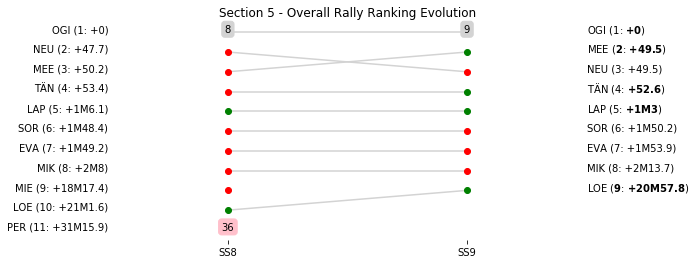
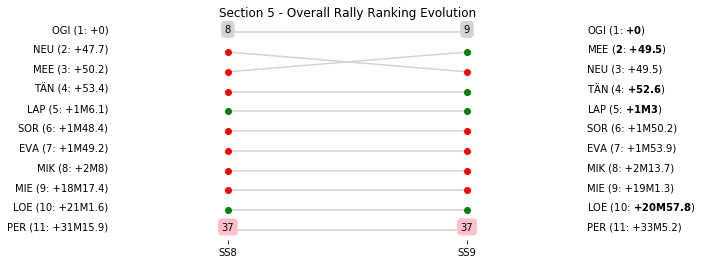
Refresh everything and do final section report

diff --git a/Section 5_report.md b/Section 5_report.md
@@ -35,10 +35,10 @@ Stage Result - SS8
 |EVA   |M-SPORT FORD WORLD RALLY TEAM|00:21:59.2000000|       7|         7|00:00:14.5000000|00:00:03.2000000|
 |SOR   |HYUNDAI SHELL MOBIS WRT      |00:22:03        |       8|         8|00:00:18.3000000|00:00:03.8000000|
 |MIK   |HYUNDAI SHELL MOBIS WRT      |00:22:06.6000000|       9|         9|00:00:21.9000000|00:00:03.6000000|
-|MIE   |MAURO MIELE                  |00:24:23.2000000|      19|        10|00:02:38.5000000|00:00:09.1000000|
-|PER   |ARMANDO PEREIRA              |00:27:03.9000000|      50|        11|00:05:19.2000000|00:00:00.6000000|
-|BOU   |M-SPORT FORD WORLD RALLY TEAM|00:28:44.7000000|      63|        12|00:07:00        |00:00:02        |
-|LAT   |TOYOTA GAZOO RACING WRT      |00:28:44.7000000|      64|        13|00:07:00        |00:00:00        |
+|MIE   |MAURO MIELE                  |00:24:23.2000000|      20|        10|00:02:38.5000000|00:00:09.1000000|
+|PER   |ARMANDO PEREIRA              |00:27:03.9000000|      51|        11|00:05:19.2000000|00:00:00.6000000|
+|BOU   |M-SPORT FORD WORLD RALLY TEAM|00:28:44.7000000|      64|        12|00:07:00        |00:00:02        |
+|LAT   |TOYOTA GAZOO RACING WRT      |00:28:44.7000000|      65|        13|00:07:00        |00:00:00        |
 |VAU   |ALAIN VAUTHIER               |                |      86|        14|                |                |
 
 
@@ -58,10 +58,10 @@ Stage Result - SS9
 |EVA   |M-SPORT FORD WORLD RALLY TEAM|00:08:39.6000000|       8|         8|00:00:08.5000000|00:00:02.9000000|
 |MIK   |HYUNDAI SHELL MOBIS WRT      |00:08:40.6000000|       9|         9|00:00:09.5000000|00:00:01        |
 |MIE   |MAURO MIELE                  |00:09:18.8000000|      19|        10|00:00:47.7000000|00:00:01.2000000|
-|PER   |ARMANDO PEREIRA              |00:10:24.2000000|      49|        11|00:01:53.1000000|00:00:00.6000000|
-|BOU   |M-SPORT FORD WORLD RALLY TEAM|                |      74|        12|                |                |
-|LAT   |TOYOTA GAZOO RACING WRT      |                |      75|        13|                |                |
-|VAU   |ALAIN VAUTHIER               |                |      85|        14|                |                |
+|PER   |ARMANDO PEREIRA              |00:10:24.2000000|      51|        11|00:01:53.1000000|00:00:00.6000000|
+|BOU   |M-SPORT FORD WORLD RALLY TEAM|00:15:31.1000000|      72|        12|00:07:00        |00:02:37.7000000|
+|LAT   |TOYOTA GAZOO RACING WRT      |00:15:31.1000000|      73|        13|00:07:00        |00:00:00        |
+|VAU   |ALAIN VAUTHIER               |                |      86|        14|                |                |
 
 
 

diff --git a/Section 6_report.md b/Section 6_report.md
@@ -25,12 +25,12 @@ Stage Result - SS10
 |SOR   |HYUNDAI SHELL MOBIS WRT      |00:11:11.7000000|       6|         6|00:00:04.6000000|00:00:00.6000000|
 |MIK   |HYUNDAI SHELL MOBIS WRT      |00:11:15        |       7|         7|00:00:07.9000000|00:00:03.3000000|
 |OGI   |M-SPORT FORD WORLD RALLY TEAM|00:11:15.2000000|       8|         8|00:00:08.1000000|00:00:00.2000000|
-|MIE   |MAURO MIELE                  |                |      25|         9|                |                |
-|MEE   |CITROEN TOTAL ABU DHABI WRT  |                |      41|        10|                |                |
-|BOU   |M-SPORT FORD WORLD RALLY TEAM|                |      42|        11|                |                |
-|LAT   |TOYOTA GAZOO RACING WRT      |                |      43|        12|                |                |
-|PER   |ARMANDO PEREIRA              |                |      71|        13|                |                |
-|VAU   |ALAIN VAUTHIER               |                |      72|        14|                |                |
+|MIE   |MAURO MIELE                  |00:12:45        |      18|         9|00:01:37.9000000|00:00:06.6000000|
+|PER   |ARMANDO PEREIRA              |00:14:20        |      45|        10|00:03:12.9000000|00:00:00.2000000|
+|LAT   |TOYOTA GAZOO RACING WRT      |00:18:07.1000000|      69|        11|00:07:00        |00:00:01.8000000|
+|MEE   |CITROEN TOTAL ABU DHABI WRT  |00:21:07.1000000|      78|        12|00:10:00        |00:00:46.3000000|
+|BOU   |M-SPORT FORD WORLD RALLY TEAM|                |      82|        13|                |                |
+|VAU   |ALAIN VAUTHIER               |                |      86|        14|                |                |
 
 
 

diff --git a/Section 7_report.md b/Section 7_report.md
@@ -14,8 +14,19 @@ The full scheduled itinerary for the section was as follows:
 
 Stage Result - SS11
 
-|Driver|Team|Elapsed Duration|Position|Class Rank|diffFirst|diffPrev|
-|------|----|----------------|--------|----------|---------|--------|
+|Driver|            Team             |Elapsed Duration|Position|Class Rank|   diffFirst    |    diffPrev    |
+|------|-----------------------------|----------------|-------:|---------:|----------------|----------------|
+|TÄN   |TOYOTA GAZOO RACING WRT      |00:33:46.9000000|       1|         1|00:00:00        |00:00:00        |
+|MEE   |CITROEN TOTAL ABU DHABI WRT  |00:33:59.5000000|       2|         2|00:00:12.6000000|00:00:12.6000000|
+|NEU   |HYUNDAI SHELL MOBIS WRT      |00:34:00.1000000|       3|         3|00:00:13.2000000|00:00:00.6000000|
+|OGI   |M-SPORT FORD WORLD RALLY TEAM|00:34:00.4000000|       4|         4|00:00:13.5000000|00:00:00.3000000|
+|LOE   |CITROEN TOTAL ABU DHABI WRT  |00:34:07        |       5|         5|00:00:20.1000000|00:00:06.6000000|
+|EVA   |M-SPORT FORD WORLD RALLY TEAM|00:34:09.6000000|       6|         6|00:00:22.7000000|00:00:02.6000000|
+|SOR   |HYUNDAI SHELL MOBIS WRT      |00:34:09.9000000|       7|         7|00:00:23        |00:00:00.3000000|
+|MIK   |HYUNDAI SHELL MOBIS WRT      |00:34:21.9000000|       8|         8|00:00:35        |00:00:12        |
+|LAP   |TOYOTA GAZOO RACING WRT      |00:35:42.4000000|      10|         9|00:01:55.5000000|00:00:35.9000000|
+|MIE   |MAURO MIELE                  |00:36:46.7000000|      19|        10|00:02:59.8000000|00:00:17.5000000|
+|PER   |ARMANDO PEREIRA              |00:39:59.7000000|      36|        11|00:06:12.8000000|00:00:01        |
 
 
 

diff --git a/Section 8_report.md b/Section 8_report.md
@@ -13,8 +13,19 @@ The full scheduled itinerary for the section was as follows:
 
 Stage Result - SS12
 
-|Driver|Team|Elapsed Duration|Position|Class Rank|diffFirst|diffPrev|
-|------|----|----------------|--------|----------|---------|--------|
+|Driver|            Team             |Elapsed Duration|Position|Class Rank|   diffFirst    |    diffPrev    |
+|------|-----------------------------|----------------|-------:|---------:|----------------|----------------|
+|LAP   |TOYOTA GAZOO RACING WRT      |00:09:41.2400000|       1|         1|00:00:00        |00:00:00        |
+|LOE   |CITROEN TOTAL ABU DHABI WRT  |00:09:43.4950000|       2|         2|00:00:02.2000000|00:00:02.2000000|
+|OGI   |M-SPORT FORD WORLD RALLY TEAM|00:09:44.6490000|       3|         3|00:00:03.4000000|00:00:01.2000000|
+|MEE   |CITROEN TOTAL ABU DHABI WRT  |00:09:44.6650000|       4|         4|00:00:03.4000000|00:00:00        |
+|TÄN   |TOYOTA GAZOO RACING WRT      |00:09:49.7400000|       5|         5|00:00:08.5000000|00:00:05.1000000|
+|SOR   |HYUNDAI SHELL MOBIS WRT      |00:09:51.0830000|       6|         6|00:00:09.8000000|00:00:01.3000000|
+|EVA   |M-SPORT FORD WORLD RALLY TEAM|00:09:51.7070000|       7|         7|00:00:10.5000000|00:00:00.7000000|
+|MIK   |HYUNDAI SHELL MOBIS WRT      |00:09:53.0900000|       8|         8|00:00:11.8000000|00:00:01.3000000|
+|NEU   |HYUNDAI SHELL MOBIS WRT      |00:10:07.8040000|       9|         9|00:00:26.6000000|00:00:14.8000000|
+|MIE   |MAURO MIELE                  |00:10:39.8660000|      20|        10|00:00:58.6000000|00:00:05.9000000|
+|PER   |ARMANDO PEREIRA              |00:11:27.7660000|      31|        11|00:01:46.5000000|00:00:00.8000000|
 
 
 

diff --git a/README.md b/README.md
@@ -1,9 +1,8 @@
 # Rally Report - France
 
-Tour de Corse (2018-04-05 to 2018-04-08) runs over 12 competitive special stages. The distance covered on the special stages is 333.48km, with an overall rally distance of 1453.16km. The special stage surface type is predominantly Tarmac.
-
-![](images/spchart_full.png)
-
 *This report is unofficial and is not associated in any way with the Fédération Internationale de l’Automobile (FIA) or WRC Promoter GmbH.*
 
 
+Tour de Corse (2018-04-05 to 2018-04-08) runs over 12 competitive special stages. The distance covered on the special stages is 333.48km, with an overall rally distance of 1453.16km. The special stage surface type is predominantly Tarmac.
+
+![](images/spchart_full.png)

diff --git a/SS11_report.md b/SS11_report.md
@@ -1,0 +1,3 @@
+# Stage Progress Chart - France, 2018 - OGI - SS11
+
+![](images/stage_report_11_OGI.png)

diff --git a/SS12_report.md b/SS12_report.md
@@ -1,0 +1,3 @@
+# Stage Progress Chart - France, 2018 - OGI - SS12
+
+![](images/stage_report_12_OGI.png)
